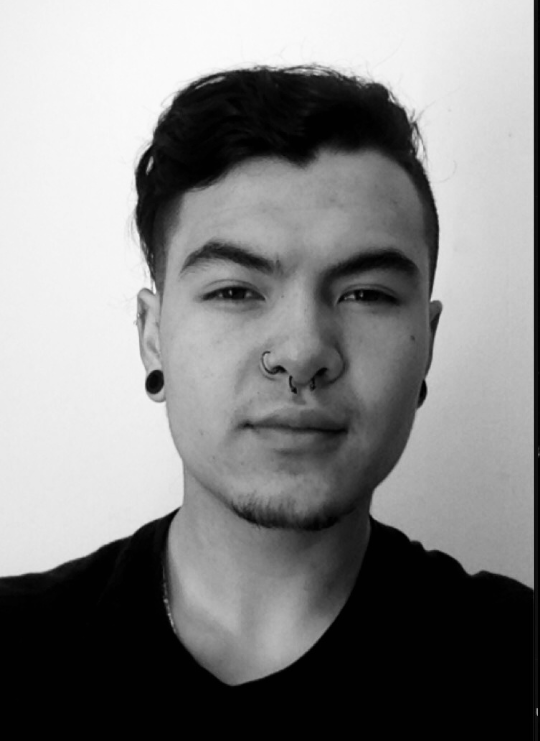
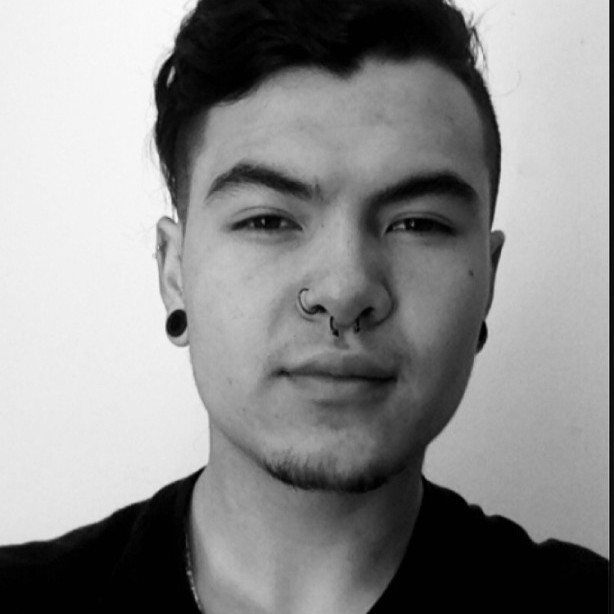
actualizo CARD

diff --git a/html/nosotros.html b/html/nosotros.html
@@ -120,9 +120,8 @@
                         <div class="card-content">
                         <h2>Luana Uriarte <small>Estudiante de ing Sistemas.  </small></h3>
                         <div class="icon-block">
-                            <a href="#"> <i class="fa fa-google"></i></a>
-                            <a href="#"> <i class="fa fa-instagram"></i></a>
-                            <a href="#"> <i class="fa fa-linkedin"></i></a> 
+                            <a href="mailto:luanauriartegonzales@gmail.com"> <i class="fa fa-google"></i></a>
+                            <a href="https://www.linkedin.com/in/luana-uriarte-3b23361b8/"> <i class="fa fa-linkedin"></i></a> 
                         </div>
                         </div>
                     </div>
@@ -133,13 +132,13 @@
                 <div class="col-md-4">
                     <div class="card profile-card-1">
                         <img src="https://images.unsplash.com/photo-1555949963-ff9fe0c870eb?ixid=MnwxMjA3fDB8MHxwaG90by1wYWdlfHx8fGVufDB8fHx8&ixlib=rb-1.2.1&auto=format&fit=crop&w=1050&q=80" alt="profile-sample1" class="background"/>
-                        <img src="https://image.flaticon.com/icons/png/512/40/40358.png" alt="profile-image" class="profile"/>
+                        <img src="../imagenes/Cards/agustina.png" alt="profile-image" class="profile" width=""/>
                         <div class="card-content">
-                        <h2>Agustina apellido<small>Estudiante de</small></h3>
+                        <h2>Agustina Gómez<small>Tester QA - Analyst Data</small></h3>
                         <div class="icon-block">
-                            <a href="#"><i class="fa fa-facebook"></i></a>
-                            <a href="#"> <i class="fa fa-instagram"></i></a>
-                            <a href="#"> <i class="fa fa-linkedin"></i></a>
+                            <a href="https://www.facebook.com/profile.php?id=100014358482949"><i class="fa fa-facebook"></i></a>
+                            <a href="mailto:agomezcorreo.1@gmail.com"> <i class="fa fa-google"></i></a>
+                            <a href="https://www.linkedin.com/in/agustina-gómez"> <i class="fa fa-linkedin"></i></a>
                         </div>
                         </div>
                     </div>
@@ -150,13 +149,13 @@
                 <div class="col-md-4">
                     <div class="card profile-card-1">
                         <img src="https://images.unsplash.com/photo-1494253109108-2e30c049369b?ixid=MnwxMjA3fDB8MHxwaG90by1wYWdlfHx8fGVufDB8fHx8&ixlib=rb-1.2.1&auto=format&fit=crop&w=1050&q=80" alt="profile-sample1" class="background"/>
-                        <img src="https://image.flaticon.com/icons/png/512/40/40358.png" alt="profile-image" class="profile"/>
+                        <img src="../imagenes/Cards/paola.png" alt="profile-image" class="profile"/>
                         <div class="card-content">
-                        <h2>Paola apellido<small>Estudiante de </small></h3>
+                        <h2>Paola Villafañe<small>Enfermera,(aficionada a la tecnología)</small></h3>
                         <div class="icon-block">
                             <a href="#"><i class="fa fa-facebook"></i></a>
-                            <a href="#"> <i class="fa fa-instagram"></i></a>
-                            <a href="#"> <i class="fa fa-linkedin"></i></a>
+                            <a href="mailto:alexandrapaolavillafane@gmail.com"> <i class="fa fa-google"></i></a>
+                            <a href="https://www.linkedin.com/in/alexandra-paola-villafane"> <i class="fa fa-linkedin"></i></a>
                         </div>
                         </div>
                     </div>
@@ -166,13 +165,12 @@
                 <div class="col-md-4 pt-2">
                     <div class="card profile-card-1">
                         <img src="https://images.unsplash.com/photo-1571171637578-41bc2dd41cd2?ixid=MnwxMjA3fDB8MHxwaG90by1wYWdlfHx8fGVufDB8fHx8&ixlib=rb-1.2.1&auto=format&fit=crop&w=1050&q=80" alt="profile-sample1" class="background"/>
-                        <img src="https://image.flaticon.com/icons/png/512/40/40358.png" alt="profile-image" class="profile"/>
+                        <img src="../imagenes/Cards/sofia1.png" alt="profile-image" class="profile"/>
                         <div class="card-content">
-                        <h2>Sofia Sica <small>Estudiante de</small></h3>
+                        <h2>Sofia Sica<small>GMB Agent Support en Cognizant</small></h3>
                         <div class="icon-block">
-                            <a href="#"><i class="fa fa-facebook"></i></a>
-                            <a href="#"> <i class="fa fa-instagram"></i></a>
-                            <a href="#"> <i class="fa fa-linkedin"></i></a>
+                            <a href="mailto:sofiadenisesica@gmail.com"> <i class="fa fa-google"></i></a>
+                            <a href="https://www.linkedin.com/in/sofia-sica"> <i class="fa fa-linkedin"></i></a>
                         </div>
                         </div>
                     </div>
@@ -183,13 +181,13 @@
                 <div class="col-md-4 pt-2">
                     <div class="card profile-card-1">
                         <img src="https://images.unsplash.com/photo-1497215842964-222b430dc094?ixid=MnwxMjA3fDB8MHxwaG90by1wYWdlfHx8fGVufDB8fHx8&ixlib=rb-1.2.1&auto=format&fit=crop&w=1050&q=80" alt="profile-sample1" class="background"/>
-                        <img src="https://image.flaticon.com/icons/png/512/40/40358.png" alt="profile-image" class="profile"/>
+                        <img src="../imagenes/Cards/juanPablo.png"  alt="profile-image" class="profile"/>
                         <div class="card-content">
-                        <h2>Juan Pablo<small>Estudiante de</small></h3>
+                        <h2>Juan Pablo Pérez<small>Estudiante de Cs. de la computación / Pentester</small></h3>
                         <div class="icon-block">
                             <a href="#"><i class="fa fa-facebook"></i></a>
                             <a href="#"> <i class="fa fa-instagram"></i></a>
-                            <a href="#"> <i class="fa fa-linkedin"></i></a></div>
+                            <a href="linkedin.com/in/juanpabloperezreyes/"> <i class="fa fa-linkedin"></i></a></div>
                         </div>
                     </div>
                     
@@ -204,9 +202,9 @@
                         <div class="card-content">
                         <h2>Herik Arismendy <small>Estudiante de Programación.</small></h3>
                         <div class="icon-block">
-                            <a href="#"><i class="fa fa-facebook"></i></a>
-                            <a href="#"> <i class="fa fa-github"></i></a>
-                            <a href="#"> <i class="fa fa-linkedin"></i></a>
+                            <a href="mailto:herikuribe@gmail.com"><i class="fa fa-google"></i></a>
+                            <a href="https://github.com/Herik22"> <i class="fa fa-github"></i></a>
+                            <a href="https://www.linkedin.com/in/herik-arismendy/"> <i class="fa fa-linkedin"></i></a>
                         </div>
                         </div>
                     </div>
